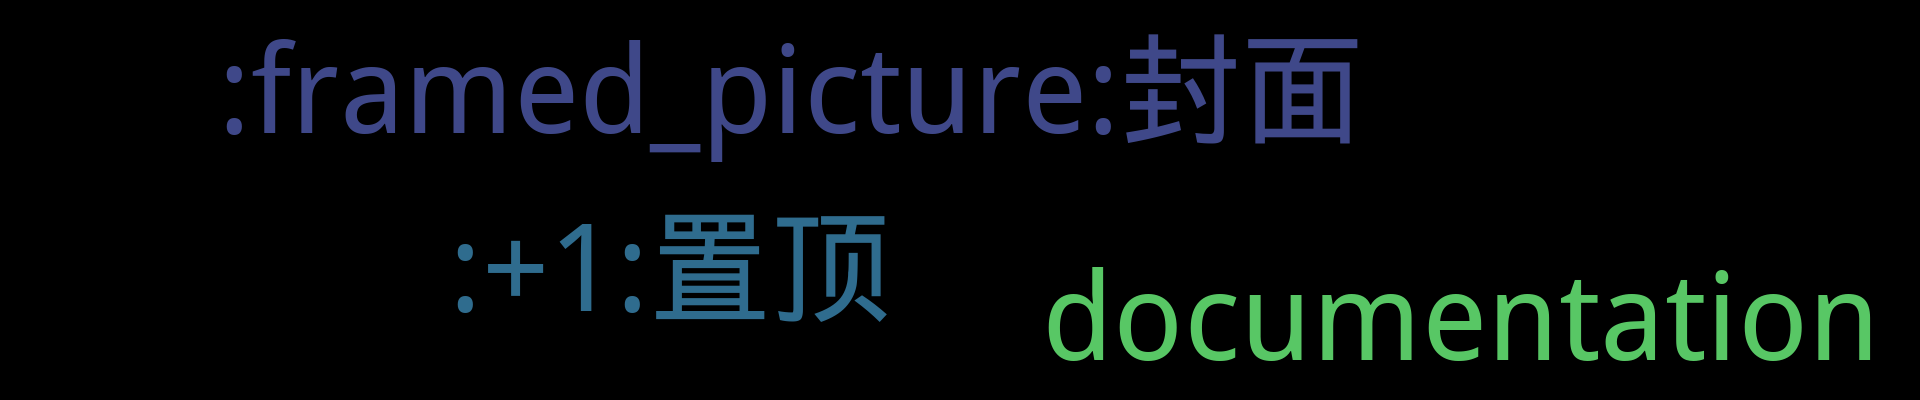
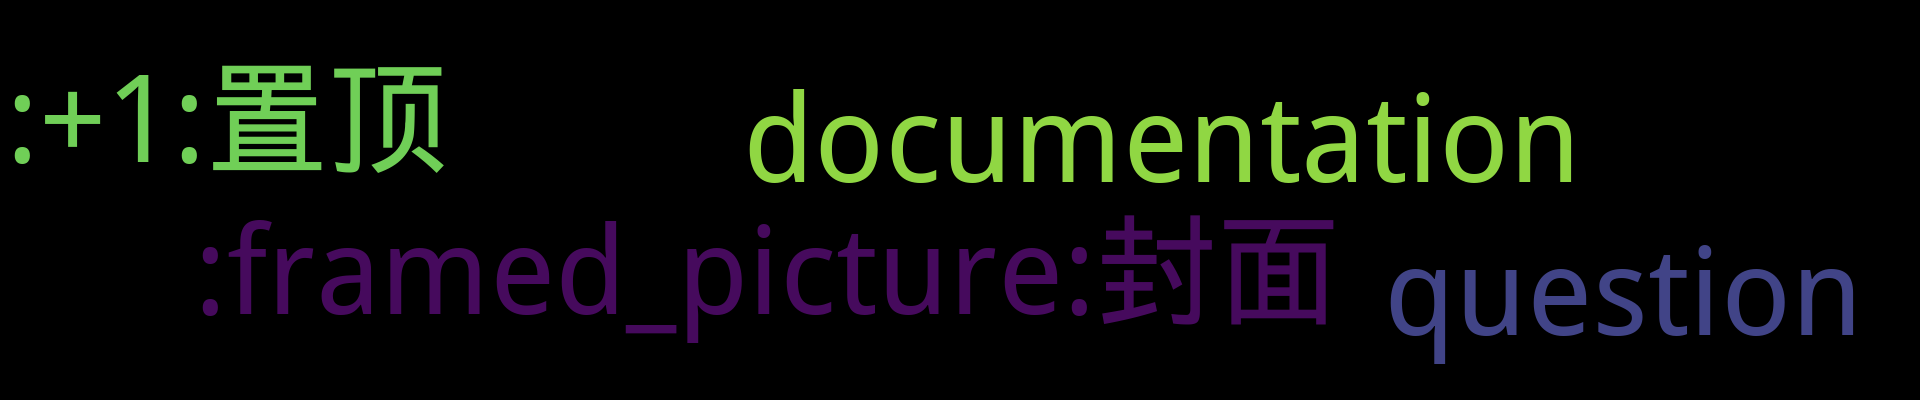
Update from Github Action

Changed region(s): [[0.0938, 0.51, 1.0, 0.9], [0.0, 0.09, 0.8438, 0.48], [0.0, 0.36, 0.0312, 0.42]]

diff --git a/README.md b/README.md
@@ -3,7 +3,7 @@
 <p align='center'>
     <img src="https://badgen.net/badge/labels/12"/>
     <img src="https://badgen.net/github/issues/smileyby/ghiblog"/>
-    <img src="https://badgen.net/badge/last-commit/2021-05-25 07:18:54"/>
+    <img src="https://badgen.net/badge/last-commit/2021-05-25 07:22:57"/>
     <img src="https://badgen.net/github/forks/smileyby/ghiblog"/>
     <img src="https://badgen.net/github/stars/smileyby/ghiblog"/>
     <img src="https://badgen.net/github/watchers/smileyby/ghiblog"/>
@@ -20,6 +20,17 @@
 ## 置顶 :thumbsup: 
 - [置顶](https://github.com/smileyby/ghiblog/issues/2)  <sup>0 :speech_balloon:</sup>  	 
 ## 最新 :new: 
+
+#### [测试-002](https://github.com/smileyby/ghiblog/issues/4) <sup>0 :speech_balloon:</sup> 	 2021-05-25 07:22:27
+
+:label: : [question](https://github.com/smileyby/ghiblog/labels/question)
+
+测试-002
+
+[更多>>>](https://github.com/smileyby/ghiblog/issues/4)
+
+---
+
 
 #### [测试-001](https://github.com/smileyby/ghiblog/issues/3) <sup>0 :speech_balloon:</sup> 	 2021-05-25 07:18:23
 
@@ -131,8 +142,9 @@
 </details>
 
 <details>
-<summary>question	<sup>0:newspaper:</sup></summary>
+<summary>question	<sup>1:newspaper:</sup></summary>
 
+- [测试-002](https://github.com/smileyby/ghiblog/issues/4)  <sup>0 :speech_balloon:</sup>  	 
 
 
 </details>
